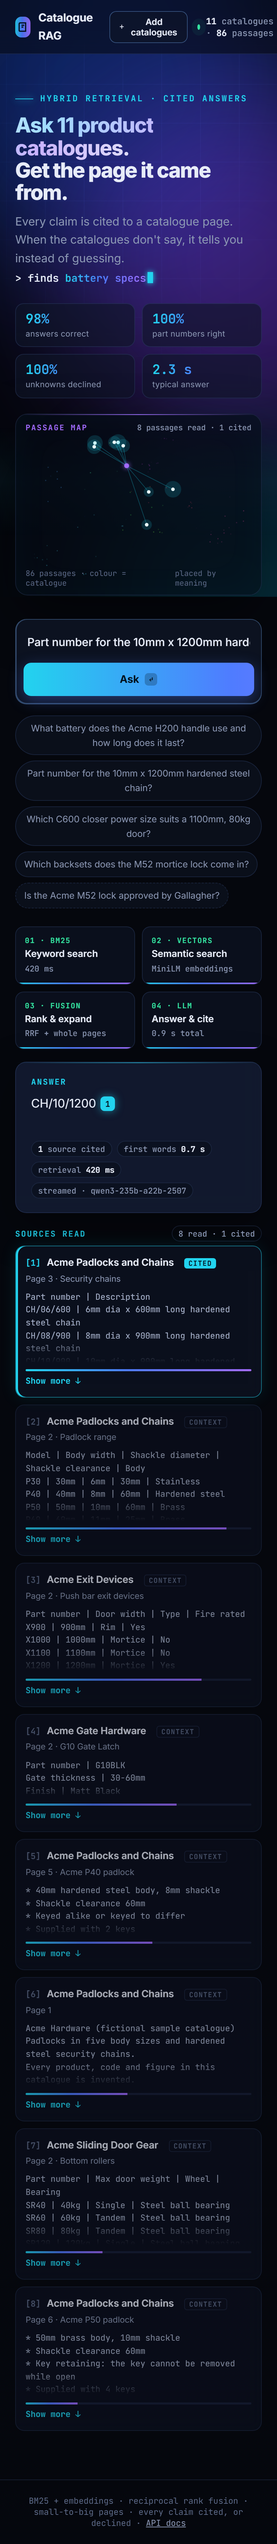
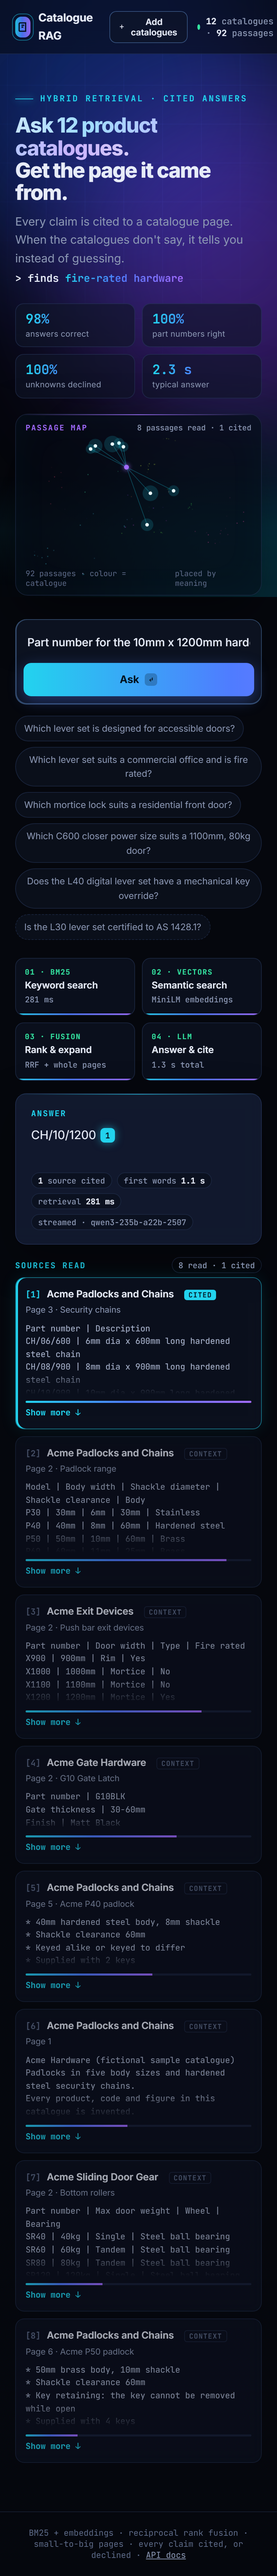
Broader door hardware examples: commercial/residential, digital/mechanical, fire, accessibility
- README intro: question types with examples, and a clear note that it reports what
  catalogues state rather than certifying compliance
- Sample: fictional lever-handle catalogue (residential, commercial fire-rated,
  accessible, digital) and four new questions, incl. a standards question it must decline
- UI examples and hero phrases; demo GIF and screenshots re-recorded

diff --git a/ui/index.html b/ui/index.html
@@ -295,11 +295,12 @@
     </form>
   </div>
   <div class="examples" id="examples">
-    <button type="button">What battery does the Acme H200 handle use and how long does it last?</button>
-    <button type="button">Part number for the 10mm x 1200mm hardened steel chain?</button>
+    <button type="button">Which lever set is designed for accessible doors?</button>
+    <button type="button">Which lever set suits a commercial office and is fire rated?</button>
+    <button type="button">Which mortice lock suits a residential front door?</button>
     <button type="button">Which C600 closer power size suits a 1100mm, 80kg door?</button>
-    <button type="button">Which backsets does the M52 mortice lock come in?</button>
-    <button type="button" class="trap" title="A question the catalogues can't answer">Is the Acme M52 lock approved by Gallagher?</button>
+    <button type="button">Does the L40 digital lever set have a mechanical key override?</button>
+    <button type="button" class="trap" title="A question the catalogues can't answer">Is the L30 lever set certified to AS 1428.1?</button>
   </div>
 
   </div>
@@ -371,7 +372,7 @@ function inline(s) {
 }
 
 // ---------- hero: typewriter cycling through what it finds ----------
-const PHRASES = ["part numbers", "battery specs", "door thicknesses", "closer power sizes", "the exact page", "what it doesn't know"];
+const PHRASES = ["part numbers", "fire-rated hardware", "accessible lever sets", "commercial vs residential", "digital or mechanical", "closer power sizes", "the exact page", "what it doesn't know"];
 async function typer() {
   const el = $("typer");
   if (reduced) { el.textContent = PHRASES[0]; return; }
@@ -399,7 +400,7 @@ document.querySelectorAll("[data-count]").forEach((el, i) =>
   setTimeout(() => countUp(el, +el.dataset.count, +(el.dataset.dec || 0), el.dataset.suffix || ""), 250 + i * 120));
 
 // ---------- placeholder cycling ----------
-const PLACEHOLDERS = ["Ask about a product, part number or spec…", "e.g. H200 handle satin chrome right hand part number", "e.g. which friction stay for a 750mm sash?", "e.g. how heavy is the Commercial Safe?"];
+const PLACEHOLDERS = ["Ask about a product, part number or spec…", "e.g. which exit device suits a 1100mm fire door?", "e.g. commercial lever set in matt black, part number?", "e.g. which friction stay for a 750mm sash?"];
 let ph = 0;
 setInterval(() => { if (!$("q").value && document.activeElement !== $("q")) $("q").placeholder = PLACEHOLDERS[++ph % PLACEHOLDERS.length]; }, 3800);
 

diff --git a/examples/make_sample.py b/examples/make_sample.py
@@ -200,10 +200,36 @@ catalogue("acme-keying", "Acme Keying and Cylinders", "Euro profile cylinders an
 ])
 ask("part_number", "Part number for a 35/45 euro profile double cylinder?", [["k35/45"]], "acme-keying")
 
+# ---------------------------------------------------------------- 11. lever handles (fixed data: no random draws,
+# so adding it leaves every other catalogue unchanged)
+levers = [["L10", "Residential lever set", "Homes: interior and entry doors", "Light duty", "No", "No"],
+          ["L20", "Commercial lever set", "Offices, schools, retail", "Heavy duty, 1,000,000 cycles", "Yes, 120 minutes", "No"],
+          ["L30", "Accessible lever set", "Public buildings, healthcare, aged care", "Heavy duty, 1,000,000 cycles", "Yes, 60 minutes", "Yes"],
+          ["L40", "Digital lever set", "Homes and small offices", "Medium duty", "No", "No"]]
+catalogue("acme-lever-handles", "Acme Lever Handles", "Mechanical and digital lever sets for residential and commercial doors.", [
+    "## Lever set range\n\n" + table(levers, ["Model", "Name", "Typical use", "Duty", "Fire rated", "Accessible design"]),
+    "## Acme L10 Residential lever set\n\n" + bullets(["For interior and entry doors in homes", "Passage, privacy and entrance functions",
+                                                       "Not fire rated: for fire doors use the L20 or L30", "Finishes: Satin Chrome, Matt Black"]),
+    "## Acme L20 Commercial lever set\n\n" + bullets(["For offices, schools and retail doors with heavy traffic",
+                                                      "Fire rated to 120 minutes when fitted to an M55 lock case",
+                                                      "Tested to 1,000,000 operating cycles", "Spring-assisted lever that does not droop"]),
+    "## Acme L30 Accessible lever set\n\n" + bullets(["Designed for accessible doors in public buildings, healthcare and aged care",
+                                                      "Return-to-door lever end so clothing and bags do not catch",
+                                                      "19mm round grip, operable with a closed fist", "Operating torque under 1 Nm",
+                                                      "High-contrast Matt Black finish for light-coloured doors",
+                                                      "Fire rated to 60 minutes when fitted to an M55 lock case"]),
+    "## Acme L40 Digital lever set\n\n" + bullets(["Keypad entry with up to 100 user codes", "Mechanical key override for flat batteries",
+                                                   "Auto-relock after 5 seconds", "Mechanical inside lever: always free egress"]),
+])
+ask("spec", "Which Acme lever set is designed for accessible doors, and what makes it accessible?",
+    [["l30"], ["return-to-door", "returntodoor", "closedfist", "19mm"]], "acme-lever-handles")
+ask("table", "Which Acme lever set suits commercial offices and is fire rated to 120 minutes?", [["l20"]], "acme-lever-handles")
+ask("spec", "Does the L40 digital lever set have a mechanical key override?", [["keyoverride", "mechanicalkey"]], "acme-lever-handles")
+
 # ---------------------------------------------------------------- unanswerable: the right answer is to decline
 for q in ["How much does the Acme H200 handle cost?", "Is the Acme M52 lock approved for use with Gallagher access control?",
           "Which building code clause covers the C800 fire door closer?", "What is the warranty on the Acme Vault Safe?",
-          "What battery does the Acme H900 handle use?"]:
+          "What battery does the Acme H900 handle use?", "Is the L30 lever set certified to AS 1428.1?"]:
     ask("unanswerable", q, [], "")
 
 OUT.mkdir(parents=True, exist_ok=True)

diff --git a/README.md b/README.md
@@ -7,14 +7,28 @@
 **An AI product expert for door hardware: ask your catalogues a question and get an answer with the exact page
 it came from, or an honest "not in the catalogues".**
 
-Built for the people who answer hardware questions all day (sales, trade counters, installers, specifiers):
-which battery, which part number, which closer size, does it fit a 44 mm door. Measured on 54 public door
-hardware catalogues (3,062 passages): **98% correct answers, 100% of unanswerable questions declined, about
-2 seconds per answer.** It can also run on a company's own GPU servers as a private knowledge base.
+Built for the people who answer door hardware questions all day: sales, trade counters, installers,
+specifiers, customer service. It answers from what the catalogues state, cites the page, and declines when they
+don't say. Measured on 54 public door hardware catalogues (3,062 passages): **98% correct answers, 100% of
+unanswerable questions declined, about 2 seconds per answer.** It can also run on a company's own GPU servers
+as a private knowledge base.
+
+| Kind of question | Examples |
+|---|---|
+| **Commercial or residential** | Which mortice lock suits a commercial entrance door, and which a residential front door? Which lever set is heavy duty for a school? |
+| **Mechanical or digital** | Does the digital lever set have a mechanical key override? Which keypad works offline? What credentials does the card reader accept? |
+| **Fire-rated doors** | Which lever sets and closers are fire rated, and for how many minutes? Which exit devices are fire rated for a 1100mm door? |
+| **Accessibility** | Which lever set is designed for accessible doors, and what makes it accessible? Which closer power size keeps a light door easy to open? |
+| **Sizing and selection** | Which closer power size suits a 1100mm, 80kg door? Which backsets does the M52 come in? Which friction stay for a 750mm sash? |
+| **Part numbers and finishes** | Part number for the commercial lever set in Matt Black? The 10mm x 1200mm chain? The 35/45 euro cylinder? |
+| **What it declines** | Prices, third-party approvals, building-code or standards compliance (e.g. "certified to AS 1428.1?") unless a catalogue states it |
+
+It reports what the documents say; it does not certify compliance. Fire and accessibility answers cite the
+catalogue page so a specifier can check the rating, conditions and fitting requirements.
 
 ![Demo: a question is answered with a citation while the retrieved passages light up on the map, then a question the catalogues can't answer is declined](docs/screenshots/demo.gif)
 
-All catalogue knowledge comes from public sources ([details](#data)). The demo and screenshots use ten
+All catalogue knowledge comes from public sources ([details](#data)). The demo and screenshots use eleven
 fictional "Acme" catalogues that ship with the repository.
 
 ## Results
@@ -55,7 +69,7 @@ flowchart LR
 | Step | What does the work | Why |
 |---|---|---|
 | Read the PDFs | **AI document parser** (LlamaParse) turns each page, including its specification tables, into Markdown | Catalogues are mostly tables; plain PDF text extraction scrambles them |
-| Understand meaning | **Embedding model** (all-MiniLM-L6-v2, runs locally) turns every passage and question into a vector | Finds "how long does the battery last" in a row labelled `Battery life` |
+| Understand meaning | **Embedding model** (all-MiniLM-L6-v2, runs locally) turns every passage and question into a vector | Finds "lever for wheelchair users" in a page about an *accessible lever set* with no shared words |
 | Match exact codes | **BM25 keyword search** with a tokenizer that understands part numbers (`C700HOSIL` = model C700, hold-open, silver) | Embedding models blur codes; a part number must match exactly |
 | Combine | **Reciprocal rank fusion**, weighted towards keywords (weight chosen by [measurement](eval/results/weight_sweep.md)) | Each search catches what the other misses |
 | Write the answer | **Large language model** (Qwen3 235B by default; any OpenAI-compatible model, including self-hosted) | Reads the 8 best passages and answers in plain language, citing `[n]` after every claim |
@@ -113,11 +127,11 @@ pip install -e ".[dev,parse]"
 cp .env.example .env      # add OPENROUTER_API_KEY, or LLM_BASE_URL for your own model server
 ```
 
-**Try it on the bundled sample** (ten fictional catalogues; used automatically when `data/` is empty):
+**Try it on the bundled sample** (eleven fictional catalogues; used automatically when `data/` is empty):
 
 ```bash
 python -m catalogue_rag index
-python -m catalogue_rag ask "Which C600 closer power size suits an 1100mm, 80kg door?"
+python -m catalogue_rag ask "Which lever set is designed for accessible doors?"
 python -m catalogue_rag serve                              # web UI on http://127.0.0.1:8000
 ```
 
@@ -130,7 +144,7 @@ python -m catalogue_rag search "H200 right hand satin chrome"   # what retrieval
 ```
 
 **Evaluate:** `python eval/run_eval.py` (or `--retrieval-only`, free and fast). It uses the sample's questions
-(`examples/questions.jsonl`) until you write your own in `eval/questions.jsonl`. On the sample: 21 of 21 correct.
+(`examples/questions.jsonl`) until you write your own in `eval/questions.jsonl`. On the sample: 25 questions, see `eval/results/sample/REPORT.md`.
 
 **Test:** `pytest` (37 tests, no API key or documents needed; runs in CI on every push). Guide from unit tests
 to a by-hand checklist: [`docs/testing.md`](docs/testing.md).
@@ -171,7 +185,7 @@ ui/index.html        single-file web UI (no build step)
 eval/                run_eval.py  sweep_weights.py  results/  baseline/ (the first version, kept for comparison)
 tests/               chunking, BM25, fusion, citations, streaming, API, uploads, config
 docs/                architecture.md  enterprise.md  testing.md  sources.md  screenshots/
-examples/            make_sample.py, parsed/ (ten fictional catalogues), questions.jsonl
+examples/            make_sample.py, parsed/ (eleven fictional catalogues), questions.jsonl
 ```
 
 ## Stack

diff --git a/examples/parsed/acme-lever-handles_content.md b/examples/parsed/acme-lever-handles_content.md
@@ -1,0 +1,64 @@
+# acme-lever-handles.pdf
+
+**Brand:** Acme (fictional sample data)
+**Parsed:** 2026-10-03
+
+---
+
+# Acme Lever Handles
+
+Acme Hardware (fictional sample catalogue)
+
+Mechanical and digital lever sets for residential and commercial doors.
+
+Every product, code and figure in this catalogue is invented.
+
+---
+
+## Lever set range
+
+<table>
+<tr><th>Model</th><th>Name</th><th>Typical use</th><th>Duty</th><th>Fire rated</th><th>Accessible design</th></tr>
+<tr><td>L10</td><td>Residential lever set</td><td>Homes: interior and entry doors</td><td>Light duty</td><td>No</td><td>No</td></tr>
+<tr><td>L20</td><td>Commercial lever set</td><td>Offices, schools, retail</td><td>Heavy duty, 1,000,000 cycles</td><td>Yes, 120 minutes</td><td>No</td></tr>
+<tr><td>L30</td><td>Accessible lever set</td><td>Public buildings, healthcare, aged care</td><td>Heavy duty, 1,000,000 cycles</td><td>Yes, 60 minutes</td><td>Yes</td></tr>
+<tr><td>L40</td><td>Digital lever set</td><td>Homes and small offices</td><td>Medium duty</td><td>No</td><td>No</td></tr>
+</table>
+
+---
+
+## Acme L10 Residential lever set
+
+* For interior and entry doors in homes
+* Passage, privacy and entrance functions
+* Not fire rated: for fire doors use the L20 or L30
+* Finishes: Satin Chrome, Matt Black
+
+---
+
+## Acme L20 Commercial lever set
+
+* For offices, schools and retail doors with heavy traffic
+* Fire rated to 120 minutes when fitted to an M55 lock case
+* Tested to 1,000,000 operating cycles
+* Spring-assisted lever that does not droop
+
+---
+
+## Acme L30 Accessible lever set
+
+* Designed for accessible doors in public buildings, healthcare and aged care
+* Return-to-door lever end so clothing and bags do not catch
+* 19mm round grip, operable with a closed fist
+* Operating torque under 1 Nm
+* High-contrast Matt Black finish for light-coloured doors
+* Fire rated to 60 minutes when fitted to an M55 lock case
+
+---
+
+## Acme L40 Digital lever set
+
+* Keypad entry with up to 100 user codes
+* Mechanical key override for flat batteries
+* Auto-relock after 5 seconds
+* Mechanical inside lever: always free egress

diff --git a/eval/results/sample/REPORT.md b/eval/results/sample/REPORT.md
@@ -1,20 +1,20 @@
 # Evaluation report
 
-Run 2026-10-03T20:55:44 · model `qwen/qwen3-235b-a22b-2507` · 21 questions (16 answerable, the rest deliberately unanswerable) · top 8 sources
+Run 2026-10-03T21:17:21 · model `qwen/qwen3-235b-a22b-2507` · 25 questions (19 answerable, the rest deliberately unanswerable) · top 8 sources
 
 ## Retrieval
 
 | System | Expected document retrieved | Answer text reaches the model | Fact MRR |
 |---|---|---|---|
-| keyword only (BM25) | 100% | 94% | 0.91 |
-| embeddings only | 94% | 88% | 0.79 |
-| hybrid (final) | 100% | 94% | 0.90 |
+| keyword only (BM25) | 100% | 89% | 0.84 |
+| embeddings only | 95% | 84% | 0.75 |
+| hybrid (final) | 100% | 89% | 0.81 |
 
 ## Answers
 
 | System | Correct | Cites the right document | Declines unanswerable | Wrongly declines | p50 / p95 |
 |---|---|---|---|---|---|
-| final | 100% | 100% | 100% | 0% | 1.5s / 2.6s |
+| final | 100% | 100% | 100% | 0% | 1.6s / 4.2s |
 
 ### Correct answers by question type
 

diff --git a/docs/testing.md b/docs/testing.md
@@ -76,6 +76,9 @@ The questions below use the bundled fictional sample catalogues (`examples/parse
 | 12 | Tell me about door closers | An overview citing several closers | vague question |
 | 13 | H200 batery lyfe | Still finds the battery life | typos |
 | 14 | M52 vs M55 mortice lock: what's different? | Uses and functions, both cited | comparing two products |
+| 15 | Which lever set is designed for accessible doors, and what makes it accessible? | L30: return-to-door lever, 19mm grip, closed-fist operation | accessibility |
+| 16 | Which lever set suits commercial offices and is fire rated to 120 minutes? | L20 | fire-rated selection |
+| 17 | Is the L30 lever set certified to AS 1428.1? | **Declines** | must not claim standards compliance |
 
 Also try: an empty box (Ask does nothing), a 600-character question (rejected), and the page on a
 phone-width window.

diff --git a/docs/sources.md b/docs/sources.md
@@ -16,7 +16,7 @@ downloaded from manufacturers' public websites in April 2026: 3,062 passages aft
 
 ## Bundled sample
 
-[`examples/parsed/`](../examples/parsed/) holds ten **fictional** "Acme" catalogues (56 pages) generated by
+[`examples/parsed/`](../examples/parsed/) holds eleven **fictional** "Acme" catalogues (62 pages) generated by
 [`examples/make_sample.py`](../examples/make_sample.py), with matching evaluation questions in
 [`examples/questions.jsonl`](../examples/questions.jsonl). Every product, part number and figure in them is
 invented. The screenshots and the demo use this sample.
